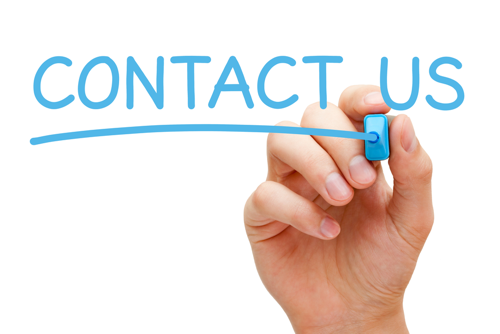
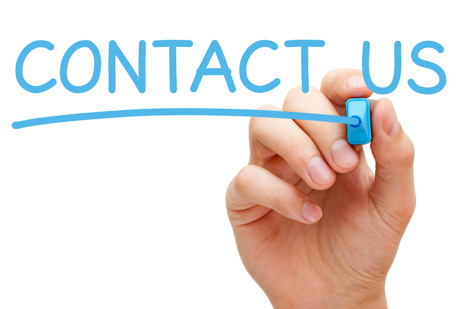
contact us page

Changed region(s): [[0.0302, 0.1165, 0.9655, 1.0], [0.4828, 0.6699, 0.6034, 0.7573], [0.5129, 0.8155, 0.6034, 0.9903]]

diff --git a/ML Frontend/templates/Contact.html b/ML Frontend/templates/Contact.html
@@ -1,0 +1,127 @@
+<!DOCTYPE html>
+<html lang="en">
+
+<head>
+    <meta charset="UTF-8">
+    <meta name="viewport" content="width=device-width, initial-scale=1.0">
+    <title>Document</title>
+    <link rel="stylesheet" href="https://maxcdn.bootstrapcdn.com/bootstrap/4.4.1/css/bootstrap.min.css">
+    <script src="https://ajax.googleapis.com/ajax/libs/jquery/3.4.1/jquery.min.js"></script>
+    <script src="https://cdnjs.cloudflare.com/ajax/libs/popper.js/1.16.0/umd/popper.min.js"></script>
+    <script src="https://maxcdn.bootstrapcdn.com/bootstrap/4.4.1/js/bootstrap.min.js"></script>
+    <link rel="stylesheet" href="https://cdnjs.cloudflare.com/ajax/libs/font-awesome/4.7.0/css/font-awesome.min.css">
+    <script src="https://kit.fontawesome.com/c587fc1763.js" crossorigin="anonymous"></script>
+
+</head>
+<style>
+    .jumbotron {
+        background: url(bg.png) fixed center no-repeat;
+        background-size: cover;
+    }
+</style>
+
+<body>
+    <nav class="navbar navbar-expand-lg navbar-dark bg-dark">
+        <a class="navbar-brand" href="#">Impulse</a>
+        <button class="navbar-toggler" type="button" data-toggle="collapse" data-target="#navbarSupportedContent" aria-controls="navbarSupportedContent" aria-expanded="false" aria-label="Toggle navigation">
+        <span class="navbar-toggler-icon"></span>
+    </button>
+
+        <div class="collapse navbar-collapse" id="navbarSupportedContent">
+            <ul class="navbar-nav mr-auto">
+                <li class="nav-item active">
+                    <a class="nav-link" href="/">Home <span class="sr-only">(current)</span></a>
+                </li>
+                <li class="nav-item">
+                    <a class="nav-link" href="#">About Us</a>
+                </li>
+
+            </ul>
+        </div>
+    </nav>
+    <div class="container">
+        <img src="contact2.jpg" class="img-responsive mx-auto d-block mb-6" alt="Responsive image" style="
+        max-width: 40%;  
+        max-height: 0.3%
+        ; ">
+        <div class="container ">
+            <div class=" text-center">
+                <h1 style="letter-spacing: 1px;word-spacing: 2px; ">CONTACT US </h1>
+            </div>
+            <div class="container bg-light  ">
+                <div class="text-center  ">
+                    <h3 style="letter-spacing: 1px;word-spacing: 2px; padding-top: 30px;">HOW CAN WE MAKE THIS PAGE BETTER ? </h3>
+                </div>
+                <div class="row ">
+                    <div class="col ">
+                        <div class="input-group mt-5 mt-5 ">
+                            <div class="input-group-prepend ">
+                                <span class="input-group-text bg-dark text-white " id="inputGroup-sizing-lg ">First Name </span>
+                            </div>
+                            <input type="text " class="form-control " aria-label="Large " aria-describedby="inputGroup-sizing-sm ">
+                        </div>
+                    </div>
+                    <div class="col ">
+                        <div class="input-group mt-5 ">
+                            <div class="input-group-prepend ">
+                                <span class="input-group-text bg-dark text-white " id="inputGroup-sizing-lg ">Last Name</span>
+                            </div>
+                            <input type="text " class="form-control " aria-label="Large " aria-describedby="inputGroup-sizing-sm ">
+                        </div>
+                    </div>
+                    <!-- <input type="text " class="form-control "> -->
+                </div>
+                <div class="row ">
+                    <div class="col ">
+                        <div class="input-group mt-5 ">
+                            <div class="input-group-prepend ">
+                                <span class="input-group-text bg-dark text-white " id="inputGroup-sizing-lg "><i class="far fa-envelope ml-2 mr-2 "></i>Email </span>
+                            </div>
+                            <input type="text " class="form-control " aria-label="Large " aria-describedby="inputGroup-sizing-sm ">
+                        </div>
+                    </div>
+                    <div class="col ">
+                        <div class="input-group mt-5 ">
+                            <div class="input-group-prepend ">
+                                <span class="input-group-text bg-dark text-white " id="inputGroup-sizing-lg "><i class="fas fa-phone-alt ml-2 mr-2 "></i>Phone</span>
+                            </div>
+                            <input type="text " class="form-control " aria-label="Large " aria-describedby="inputGroup-sizing-sm ">
+                        </div>
+                    </div>
+                </div>
+                <div class="row ">
+                    <div class="col ">
+
+                        <div class="form-group ">
+                            <label for="comment " class="bg-dark text-white mt-5 p-2 ">Description</label>
+                            <textarea class="form-control mb-2 " rows="5 " id="comment "></textarea>
+                        </div>
+                    </div>
+                </div>
+                <button type="submit " class="btn btn-primary mx-auto d-block ">Submit Your Feedback !</button>
+            </div>
+        </div>
+        <div class="container bg-dark text-white .jumbotron">
+            <div class=" text-center mt-5 ">
+                <br>
+                <h3 style="margin-top: 10px;"> This website was created by </h3>
+            </div>
+            <div class="d-flex flex-row justify-content-center align-items-center  text-white" style="height: 200px;">
+
+                <div class="p-2 align-middle ">
+                    <h3> GUPTA ABHISHEK</h3>
+                    <img src="https://img.icons8.com/color/30/000000/gmail.png" /><br>
+                    <img src="https://img.icons8.com/material-sharp/30/000000/github.png" />
+                </div>
+
+            </div>
+        </div>
+    </div>
+
+
+    </form>
+    </div>
+    </div>
+</body>
+
+</html>
